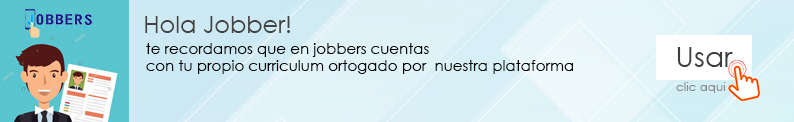
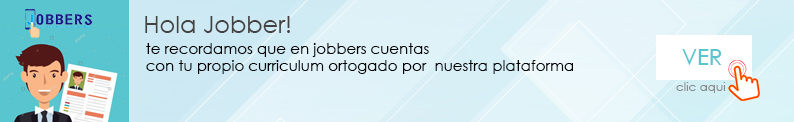
Acceso directo para descargar CV

Changed region(s): [[0.8463, 0.3934, 0.937, 0.5656]]

diff --git a/local/resources/views/candidatos_perfil.php b/local/resources/views/candidatos_perfil.php
@@ -471,7 +471,7 @@ $mi_tokken = csrf_token();
                                 }
                                 ?>
                                 <div class="social-edit">
-                                    <h3>Redes sociales</h3>
+                                    <h3>Redes sociales <span style="font-size: 11px;color: #ff0000;">(* Campos no obligatorios)</h3></span></h3>
                                     <form action="candiredescrear" method="post" id="form_candiredescrear">
                                         <input name="_token" type="hidden" value="<?php echo csrf_token();?>" id="my_token">
                                         <input type="hidden" name="pagina" value="perfil">
@@ -865,8 +865,14 @@ $mi_tokken = csrf_token();
                                             </div> 
                                         </div>
 
+                                       <div style="text-align: center;"> 
+                                            <a target="_blank" href="<?php echo Request::root().'/reporte/'.session()->get('cand_id');?>">
+                                                 <img id="cvjobbers" src="<?= 'local/resources/views/images/sin_usar.jpg'?>">
+                                            </a>
+                                       </div>
+                                     
                                         <?php if ($cv_fisico[0]->cantidad>0): ?>
-                                             <div class="border-title"><h3>CV adjunto</h3> </div>
+                                             <div class="border-title"><h3>CV adjunto  <span style="font-size: 11px;color: #ff0000;">(* Debe eliminar el CV adjunto para que la empresa pueda ver su CV de Jobbers)</h3></span></div>
                                              <div class="manage-jobs-sec addscroll">
                                                 <table>
                                                     <thead>
@@ -886,7 +892,7 @@ $mi_tokken = csrf_token();
                                                 </table>
                                             </div>
                                         <?php else: ?>
-                                            <div class="border-title"><h3>Adjuntar CV</h3> 
+                                            <div  class="border-title"><h3>Adjuntar CV</h3> 
                                             </div>
                                             <div class="social-edit" style="margin-right: 30px; margin-left: 30px;font-weight: 600;font-size: 12px;padding-bottom: 5px;color: #008204;">
                                                 <i>*Si adjunta un CV éste será el CV que podrán ver las empresas, de lo contrario se mostrara el <a target="_blank" href='reporte/<?= session()->get('cand_id');?>' style="color: #008adb;text-decoration: underline;">CV de Jobbers</a></i>

diff --git a/local/resources/views/candidatos_dashboard.php b/local/resources/views/candidatos_dashboard.php
@@ -56,18 +56,18 @@
 												<div class="col-lg-4 col-md-4 col-sm-12">
 													<div class="p-category">
 														<a href="candiperfil" title="">
-															<i class="la la-file-text"></i>
+															<i class="la la-user"></i>
 															<span>Mi información</span>
 															<p>Ver Perfil</p>
 														</a>
 													</div>
 												</div> 
 												<div class="col-lg-4 col-md-4 col-sm-12">
-													<div class="p-category follow-companies-popup">
-														<a href="candiempseg" title="">
-															<i class="la la-industry"></i>
-															<span>Empresa Seguidas</span>
-															<p><?= $empresas_seguidas ?> Empresas</p>
+													<div class="p-category">
+														<a href="candiperfil#cvjobbers" title="">
+															<i class="la la-file-text"></i>
+															<span>Mi CV Jobbers</span>
+															<p>&nbsp;</p>
 														</a>
 													</div>
 												</div>
@@ -90,6 +90,15 @@
 															<i class="la la-check"></i>
 															<span>Recomendaciones</span>
 															<p><?= $recomendaciones ?> Recomendaciones</p>
+														</a>
+													</div>
+												</div>
+												<div class="col-lg-4 col-md-4 col-sm-12">
+													<div class="p-category follow-companies-popup">
+														<a href="candiempseg" title="">
+															<i class="la la-industry"></i>
+															<span>Empresa Seguidas</span>
+															<p><?= $empresas_seguidas ?> Empresas</p>
 														</a>
 													</div>
 												</div>

diff --git a/local/resources/views/includes/aside_candidatos.php b/local/resources/views/includes/aside_candidatos.php
@@ -19,6 +19,9 @@
 				<li >
 					<a href="candiperfil" title=""><i class="la la-user"></i>Mi información</a>
 				</li>
+				<li >
+					<a href="<?php echo Request::root().'/candiperfil#cvjobbers';?>" title=""><i class="la la-file-text"></i>Mi CV Jobbers</a>
+				</li>
 				<!--<li >
 					<a href="candicv" title=""><i class="la la-file-text"></i>Adjuntar curriculum</a>
 				</li>-->
